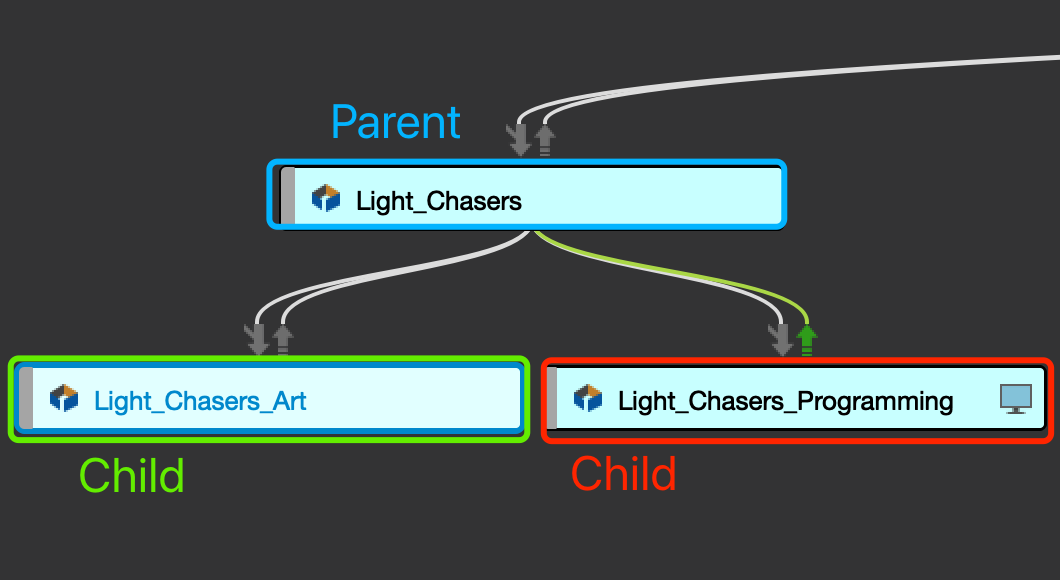
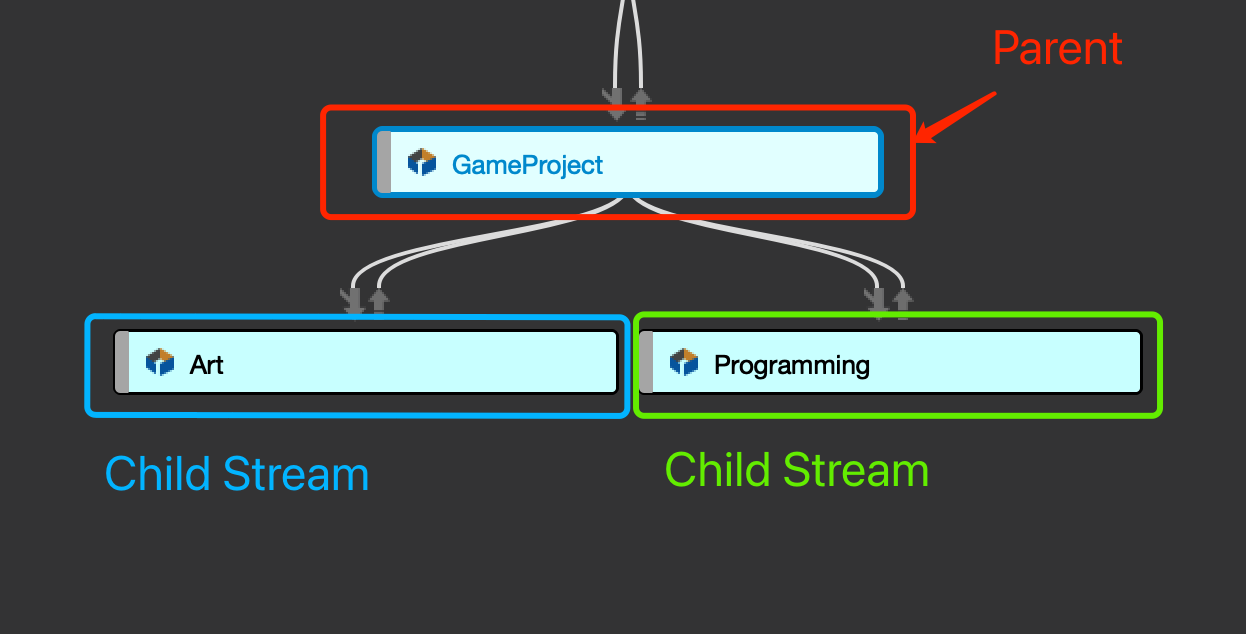
Adding General Workflow for streams

diff --git a/Documentation/streamWorkspaceWorkflow.md b/Documentation/streamWorkspaceWorkflow.md
@@ -1,11 +1,67 @@
 # Stream Workspace Workflow
 
 ### General Workflow
-Streams follow a very controlled hierarchical structure. consider the following stream structure for the Light Chaser project:
+Streams follow a very controlled hierarchical structure. consider the following stream structure for the demo GameProject:
 
 <img src="../Assets/structureOfTheStreams.png">
 
-The ```Light_Chasers``` stream is the parent stream of the ```Light_Chasers_Art``` stream and the ```Light_Chasers_Programming``` stream.
+The ```GameProject``` stream is the parent stream of the ```Art``` stream and the ```Programming``` stream.
 
-The little monior icon is located on the ```Light_Chaser_Programming``` stream.
+As you can see, the streams are designed for each displine for the whole project. The artists are expected to use the ```Art``` stream, and the the programmers will work in the ```Programming``` stream, the ```GameProject``` stream is the parent stream that both of the child streams contribute and synced with.
 
+Let's say a modeler Adam is trying to work on the new model, Here is the general process:
+
+* Adam would first create a ```workspace```(if he haven't already) from the ```Art``` Stream.
+
+* Adam get all the revisions on his workspace just in case he is missing important update.
+
+* Adam create the new model and save the file within the workspace.
+
+* Adam mark the file for add and add it to a ```change list``` (a change list is a list of file changes recorded on the workspace and will be submitted to the server) 
+
+* Adam submit the change list to the server, the ```Art``` stream now has the new model.
+
+* Adam merge down the changes from the ```Game Project``` stream, and solve file change conflicts if there is any(file comflicts happens when 2 people alterted the same file, should be rare cases).
+
+* Some one on the ```GameProject``` stream will then copy it up so that every one can have access to it. Adam can also switch to the ```GameProject``` stream to do it himself.
+
+Let workthrough the steps described above with the ```StreamDemo``` depot:
+
+```NOTE: Step 1 and 2 are only needed if you haven't created the workspace on the computer yet```
+
+1, Open P4V, and open the ```Stream Graph``` panel, if can't find, you can go to the view menu to find it. In the ```Depot``` list, select the ```StreamDemo``` depot, check on only the ```GameProject``` and it's children in the tree view under, and click on the ```Apply``` button. Right click on the ```Art``` stream in the graph, and Select ```New Workspace...```
+<img src="../Assets/demoNewWorkspace.png">
+
+2, in the popup window, All you need to do is click on the ```Browse...``` button to set which directory will be used for the workspace. and press ```OK```
+
+<img src="../Assets/demoCreateWorkspacePopup.png">
+
+You will automatically switch to the new workspace, and there will be a monior icon showing on the ```Art``` stream, indicating that you current workspace is on that stream.
+
+<img src="../Assets/monitorOnArtStream.png">
+
+3, Go to the ```Workspace``` tab, and select the root of the file tree, and click on the ```Get Latest``` button to get the the files updated to their latest state, the folders/files should now apear in the tree view.
+
+<img src="../Assets/getLatest.png" width=300>
+
+4, Add a maya file (Model.mb) to the Art folder, click on the refresh button in p4v, and the file should apear. Right click on the ```Model.mb``` file, and select ```Mark for Add...```
+
+<img src="../Assets/addAFile.png" width=300>
+
+In the popup window, click on ```OK``` to add the file to the default changelist.
+
+<img src="../Assets/addNewFileChangeList.png" width=300>
+
+5, go to the ```Pending``` tab, select the ```default``` change list, and click on the ```Submit``` button, in the popup window, add some comment to describe what the change is, and click on the ```Submit``` button.
+
+<img src="../Assets/submitChangeList.png">
+
+7, Go back to the stream graph, and observe the the current state of the streams:
+
+<img src="../Assets/mergedownCopyUp.png">
+
+We can see that the green arrow from ```GameProject``` (parent) lights up, that means there is new update in the parent that needs to be merged down before you can copy up your new changes. the red arrow leading to ```GameProject``` also lights up, meaning that you do have new changes to be copied to the parent.
+
+Perforce streams follows a very structured way for updates to flow, the new changes from the parent have to be merged down to the child before the child can copy up their changes back to the parent, or to put it simply a ```Merge Down - Copy Up``` workflow.
+
+To change any perforce stream, you have to swith to that stream.For example, to merge down the changes from the parent to child(in this case the child is the one being updated/changed), you need to be on the child stream.To copy up from the child to the parent(in this case the parent is the one being updated/changed), you have to be on the parent stream.

diff --git a/Documentation/Admin.md b/Documentation/Admin.md
@@ -69,7 +69,7 @@ The GPIII group has super access to only the Assembly_Line, Synth_Escape, Trifor
 
 <img src="../Assets/DepotName.png">
 
-* In the pop up window next, the default depot type now is a stream depot, steams are Perforce's vision of how Git Branches should be. If you are not comfortable using streams, besure to change the type to local. The ```Storage location for versioned files:``` setting by default is your-depot-name/... this setting will create a subfolder called your-depot-name under the root folder of the server. if you want more strture, you can add a nested directory.
+* In the pop up window next, the default depot type now is a stream depot, steams are Perforce's vision of how Git Branches should be. If you are not comfortable using streams, besure to change the type to local, but the new trend is to use the stream depots. The ```Storage location for versioned files:``` setting by default is your-depot-name/... this setting will create a subfolder called your-depot-name under the root folder of the server. if you want more strture, you can add a nested directory. The ```depth``` setting can be 1, but if hosting multiple projects in one depot, it is recommended to use a value of 2 or more, the more the value is, the more nesting you can have in the depot tree  view, note that it is more of an organization setting than anything else, setting it to 1 would not prevent you from making nested streams of folders, but your depot tree view will be flat.
 Click ```Apply``` to finish creating the server.
 
 <img src="../Assets/CreateDepotSettings.png">
